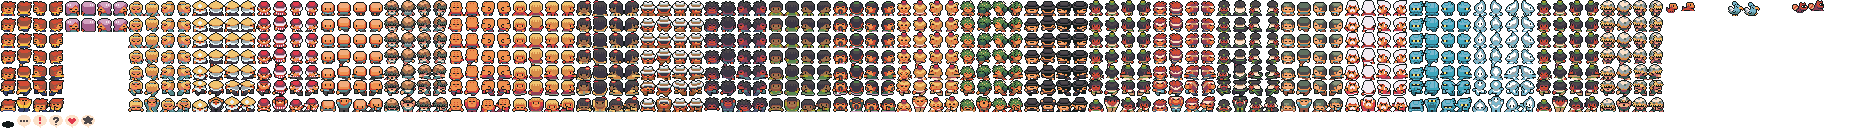
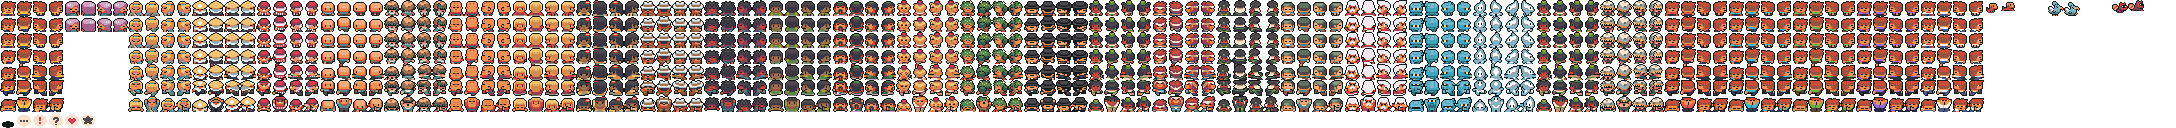
Hero outfits in the shop: five new looks, worn around town

diff --git a/src/world-view/WorldCanvas.tsx b/src/world-view/WorldCanvas.tsx
@@ -41,6 +41,8 @@ interface Props {
   /** Residents with a speech bubble over their head. */
   bubbles: { who: string; x: number; y: number; kind: (typeof EXTRAS)[number] }[];
   walker: RefObject<Walker>;
+  /** The hero's sprite (an outfit). */
+  hero?: string;
   /** The pet trotting along behind the hero, if one is equipped. */
   pet?: string | null;
   onTick: (dt: number) => void;
@@ -89,6 +91,7 @@ function Scene({
   sheets,
   pet,
   fog,
+  hero = 'hero',
 }: Props & { sheets: { city: Texture; people: Texture } }) {
   const fogTexture = useMemo(() => createFog(map.width, map.height), [map]);
   const lighting = useMemo(() => createLighting('#6a74ad', fogTexture), [fogTexture]);
@@ -172,7 +175,7 @@ function Scene({
       {residents.map((r) => (
         <Person key={`${r.who}@${r.x},${r.y}`} who={r.who} x={r.x} y={r.y} facing={r.facing} sheet={peopleSheet} material={people} />
       ))}
-      <Hero walker={walker} sheet={peopleSheet} material={people} />
+      <Hero key={hero} who={hero} walker={walker} sheet={peopleSheet} material={people} />
       {pet && <Pet key={pet} id={pet} walker={walker} sheet={peopleSheet} material={people} />}
       {bubbles.map((b) => (
         <Bubble key={`${b.who}@${b.x},${b.y}`} {...b} sheet={peopleSheet} material={people} />
@@ -308,8 +311,9 @@ function Person({
   );
 }
 
-function Hero({ walker, sheet, material }: { walker: RefObject<Walker>; sheet: Sheet; material: ShaderMaterial }) {
-  const g = useQuad(sheet, 0, 0, T, T);
+function Hero({ who, walker, sheet, material }: { who: string; walker: RefObject<Walker>; sheet: Sheet; material: ShaderMaterial }) {
+  const column = Math.max(0, PEOPLE.indexOf(who as (typeof PEOPLE)[number])) * 64;
+  const g = useQuad(sheet, column, 0, T, T);
   const group = useRef<Mesh>(null);
   const last = useRef('');
   useFrame(() => {
@@ -319,7 +323,7 @@ function Hero({ walker, sheet, material }: { walker: RefObject<Walker>; sheet: S
     const key = `${w.facing}${frame}`;
     if (key !== last.current) {
       last.current = key;
-      setQuadSource(g, sheet, FACING_COLUMN[w.facing] * T, frame * T, T, T);
+      setQuadSource(g, sheet, column + FACING_COLUMN[w.facing] * T, frame * T, T, T);
     }
     if (group.current) group.current.position.set(p.x, -p.y, depth(p.y + 1) + 0.005);
   });

diff --git a/src/game/shop.ts b/src/game/shop.ts
@@ -1,6 +1,6 @@
 // Everything sparks can buy. Pets are tools; the rest is cosmetic.
 
-export type ItemKind = 'pet' | 'wire' | 'board' | 'hat';
+export type ItemKind = 'pet' | 'wire' | 'board' | 'hat' | 'outfit';
 
 interface ItemBase {
   id: string;
@@ -38,7 +38,12 @@ export interface HatItem extends ItemBase {
   kind: 'hat';
 }
 
-export type ShopItem = PetItem | WireItem | BoardItem | HatItem;
+/** Clothes for the hero. The sprites are made by scripts/art.mjs (OUTFITS there). */
+export interface OutfitItem extends ItemBase {
+  kind: 'outfit';
+}
+
+export type ShopItem = PetItem | WireItem | BoardItem | HatItem | OutfitItem;
 
 export const PETS: PetItem[] = [
   {
@@ -200,7 +205,19 @@ export const HATS: HatItem[] = [
   { id: 'crown', kind: 'hat', name: 'Crown', price: 250, blurb: 'Ruler of Glowtown.' },
 ];
 
-export const CATALOGUE: ShopItem[] = [...PETS, ...WIRES, ...BOARDS, ...HATS];
+export const OUTFITS: OutfitItem[] = [
+  { id: 'uniform', kind: 'outfit', name: 'Glowire uniform', price: 0, blurb: 'Sunny yellow. Gran’s orders.' },
+  { id: 'ember', kind: 'outfit', name: 'Ember hoodie', price: 80, blurb: 'Warm as a lit filament.' },
+  { id: 'tide', kind: 'outfit', name: 'Harbour blue', price: 100, blurb: 'Captain Rosa approves.' },
+  { id: 'moss', kind: 'outfit', name: 'Explorer', price: 120, blurb: 'Wren lent you the pattern.' },
+  { id: 'plum', kind: 'outfit', name: 'Stargazer', price: 150, blurb: 'For Star Night.' },
+  { id: 'snow', kind: 'outfit', name: 'Night shift', price: 200, blurb: 'So bright it glows in the dark. Almost.' },
+];
+
+export const CATALOGUE: ShopItem[] = [...PETS, ...WIRES, ...BOARDS, ...HATS, ...OUTFITS];
+
+/** The hero's sprite (people.generated.ts) for an outfit. */
+export const outfitSprite = (id: string) => (id === 'uniform' ? 'hero' : `hero-${id}`);
 
 export function item(id: string): ShopItem | undefined {
   return CATALOGUE.find((i) => i.id === id);

diff --git a/src/game/game.test.ts b/src/game/game.test.ts
@@ -34,7 +34,7 @@ describe('save file', () => {
     expect(migrate('nope')).toEqual(NEW_SAVE);
     const save = migrate({ version: 2, sparks: -5, owned: ['scout', 4], stars: { 1: 'x', 2: 3 } });
     expect(save.sparks).toBe(0);
-    expect(save.owned).toEqual(['copper', 'wood', 'nohat', 'scout']);
+    expect(save.owned).toEqual(['copper', 'wood', 'nohat', 'uniform', 'scout']);
     expect(save.stars).toEqual({ '2': 3 });
   });
 
@@ -87,7 +87,7 @@ describe('shop', () => {
     save = equip(save, 'midnight');
     save = equip(save, 'crown');
     save = equip(save, 'hoot');
-    expect(save.equipped).toEqual({ pet: 'hoot', wire: 'neon', board: 'midnight', hat: 'crown' });
+    expect(save.equipped).toEqual({ pet: 'hoot', wire: 'neon', board: 'midnight', hat: 'crown', outfit: 'uniform' });
     expect(equip(save, 'hoot').equipped.pet).toBeNull();
     expect(equip(save, 'gold')).toBe(save); // not owned
   });
@@ -152,5 +152,13 @@ describe('story', () => {
   it('numbers the notebook pages 1, 2, 3… with no gaps', () => {
     const pages = Object.values(NOTES).map((n) => n.page).sort((a, b) => a - b);
     expect(pages).toEqual(pages.map((_, i) => i + 1));
+  });
+});
+
+describe('outfits', () => {
+  it('every outfit in the shop has a hero sprite and a portrait', async () => {
+    const { OUTFITS, outfitSprite } = await import('./shop');
+    const { PEOPLE } = await import('../world/people.generated');
+    for (const o of OUTFITS) expect(PEOPLE as readonly string[], o.id).toContain(outfitSprite(o.id));
   });
 });

diff --git a/src/ui/Shop.tsx b/src/ui/Shop.tsx
@@ -5,7 +5,7 @@ import { useState } from 'react';
 import { Image, ScrollView, StyleSheet, View } from 'react-native';
 import { SafeAreaView } from 'react-native-safe-area-context';
 
-import { BOARDS, type BoardItem, type ItemKind, PETS, type ShopItem, WIRES, type WireItem } from '../game/shop';
+import { BOARDS, type BoardItem, type ItemKind, OUTFITS, PETS, type ShopItem, WIRES, type WireItem, outfitSprite } from '../game/shop';
 import { FACES } from './faces.generated';
 import { useGame } from './game';
 import { buzz } from './haptics';
@@ -32,6 +32,7 @@ const TABS: { kind: ItemKind; label: string; items: ShopItem[]; blurb: string }[
     items: PETS,
     blurb: 'Pets follow you around town and help on jobs. Tap your pet on the job screen.',
   },
+  { kind: 'outfit', label: 'Outfits', items: OUTFITS, blurb: 'What you wear around town.' },
   { kind: 'wire', label: 'Wire glow', items: WIRES, blurb: 'The colour your wires glow when current flows.' },
   { kind: 'board', label: 'Workbench', items: BOARDS, blurb: 'The light over your workbench.' },
 ];
@@ -140,6 +141,8 @@ function Preview({ item }: { item: ShopItem }) {
       return <WireSwatch wire={item} />;
     case 'board':
       return <BenchSwatch board={item} />;
+    case 'outfit':
+      return <Image source={FACES[outfitSprite(item.id)]} style={styles.face} />;
     case 'hat':
       return null;
   }

diff --git a/src/game/save.ts b/src/game/save.ts
@@ -9,7 +9,7 @@ export interface SaveData {
   stars: Record<string, number>;
   sparks: number;
   owned: string[];
-  equipped: { pet: string | null; wire: string; board: string; hat: string };
+  equipped: { pet: string | null; wire: string; board: string; hat: string; outfit: string };
   daily: {
     /** The last day solved, as YYYY-MM-DD. */
     last: string | null;
@@ -28,8 +28,8 @@ export const NEW_SAVE: SaveData = {
   version: 2,
   stars: {},
   sparks: 0,
-  owned: ['copper', 'wood', 'nohat'],
-  equipped: { pet: null, wire: 'copper', board: 'wood', hat: 'nohat' },
+  owned: ['copper', 'wood', 'nohat', 'uniform'],
+  equipped: { pet: null, wire: 'copper', board: 'wood', hat: 'nohat', outfit: 'uniform' },
   daily: { last: null, streak: 0, best: 0, stars: {} },
   seen: [],
   unlockAll: false,
@@ -63,6 +63,7 @@ export function migrate(raw: unknown): SaveData {
       wire: typeof equipped.wire === 'string' ? equipped.wire : base.equipped.wire,
       board: typeof equipped.board === 'string' ? equipped.board : base.equipped.board,
       hat: typeof equipped.hat === 'string' ? equipped.hat : base.equipped.hat,
+      outfit: typeof equipped.outfit === 'string' ? equipped.outfit : base.equipped.outfit,
     },
     daily: {
       last: typeof daily.last === 'string' ? daily.last : null,

diff --git a/src/world/people.generated.ts b/src/world/people.generated.ts
@@ -1,7 +1,7 @@
 // Generated by scripts/art.mjs. Do not edit.
 
 /** Column of each person (and pet) in assets/art/people.png (64px each). */
-export const PEOPLE = ["hero","gran","pell","okoro","rafi","theo","twins","arjun","nadia","ito","finch","benny","coral","luca","sunny","iris","dot","mei","rosa","sal","gus","lumen","pip","grumble","wren","marigold","scout","hoot","penny"] as const;
+export const PEOPLE = ["hero","gran","pell","okoro","rafi","theo","twins","arjun","nadia","ito","finch","benny","coral","luca","sunny","iris","dot","mei","rosa","sal","gus","lumen","pip","grumble","wren","marigold","hero-ember","hero-tide","hero-moss","hero-plum","hero-snow","scout","hoot","penny"] as const;
 
 /** Extras along the bottom row (16px cells): the shadow, then speech bubbles. */
 export const EXTRAS = ["shadow","chat","job","question","heart","star"] as const;

diff --git a/src/world-view/WorldScreen.tsx b/src/world-view/WorldScreen.tsx
@@ -9,6 +9,7 @@ import { useCallback, useEffect, useMemo, useRef, useState } from 'react';
 import { Platform, Pressable, ScrollView, StyleSheet, View } from 'react-native';
 
 import { type SaveData, dayKey, totalStars } from '../game/save';
+import { outfitSprite } from '../game/shop';
 import { NOTES, SCENES, type Scene } from '../game/story';
 import { LEVELS } from '../levels/levels';
 import type { LevelDef } from '../levels/types';
@@ -404,6 +405,7 @@ export function WorldScreen({ map, worldId }: { map: WorldMap; worldId: string }
         map={map}
         paused={!focused}
         pet={save.equipped.pet}
+        hero={outfitSprite(save.equipped.outfit)}
         lit={lit}
         fog={fog}
         residents={residents}

diff --git a/src/ui/faces.generated.ts b/src/ui/faces.generated.ts
@@ -28,6 +28,11 @@ export const FACES: Record<string, number> = {
   "grumble": require('../../assets/art/faces/grumble.png'),
   "wren": require('../../assets/art/faces/wren.png'),
   "marigold": require('../../assets/art/faces/marigold.png'),
+  "hero-ember": require('../../assets/art/faces/hero-ember.png'),
+  "hero-tide": require('../../assets/art/faces/hero-tide.png'),
+  "hero-moss": require('../../assets/art/faces/hero-moss.png'),
+  "hero-plum": require('../../assets/art/faces/hero-plum.png'),
+  "hero-snow": require('../../assets/art/faces/hero-snow.png'),
   "scout": require('../../assets/art/faces/scout.png'),
   "hoot": require('../../assets/art/faces/hoot.png'),
   "penny": require('../../assets/art/faces/penny.png'),
